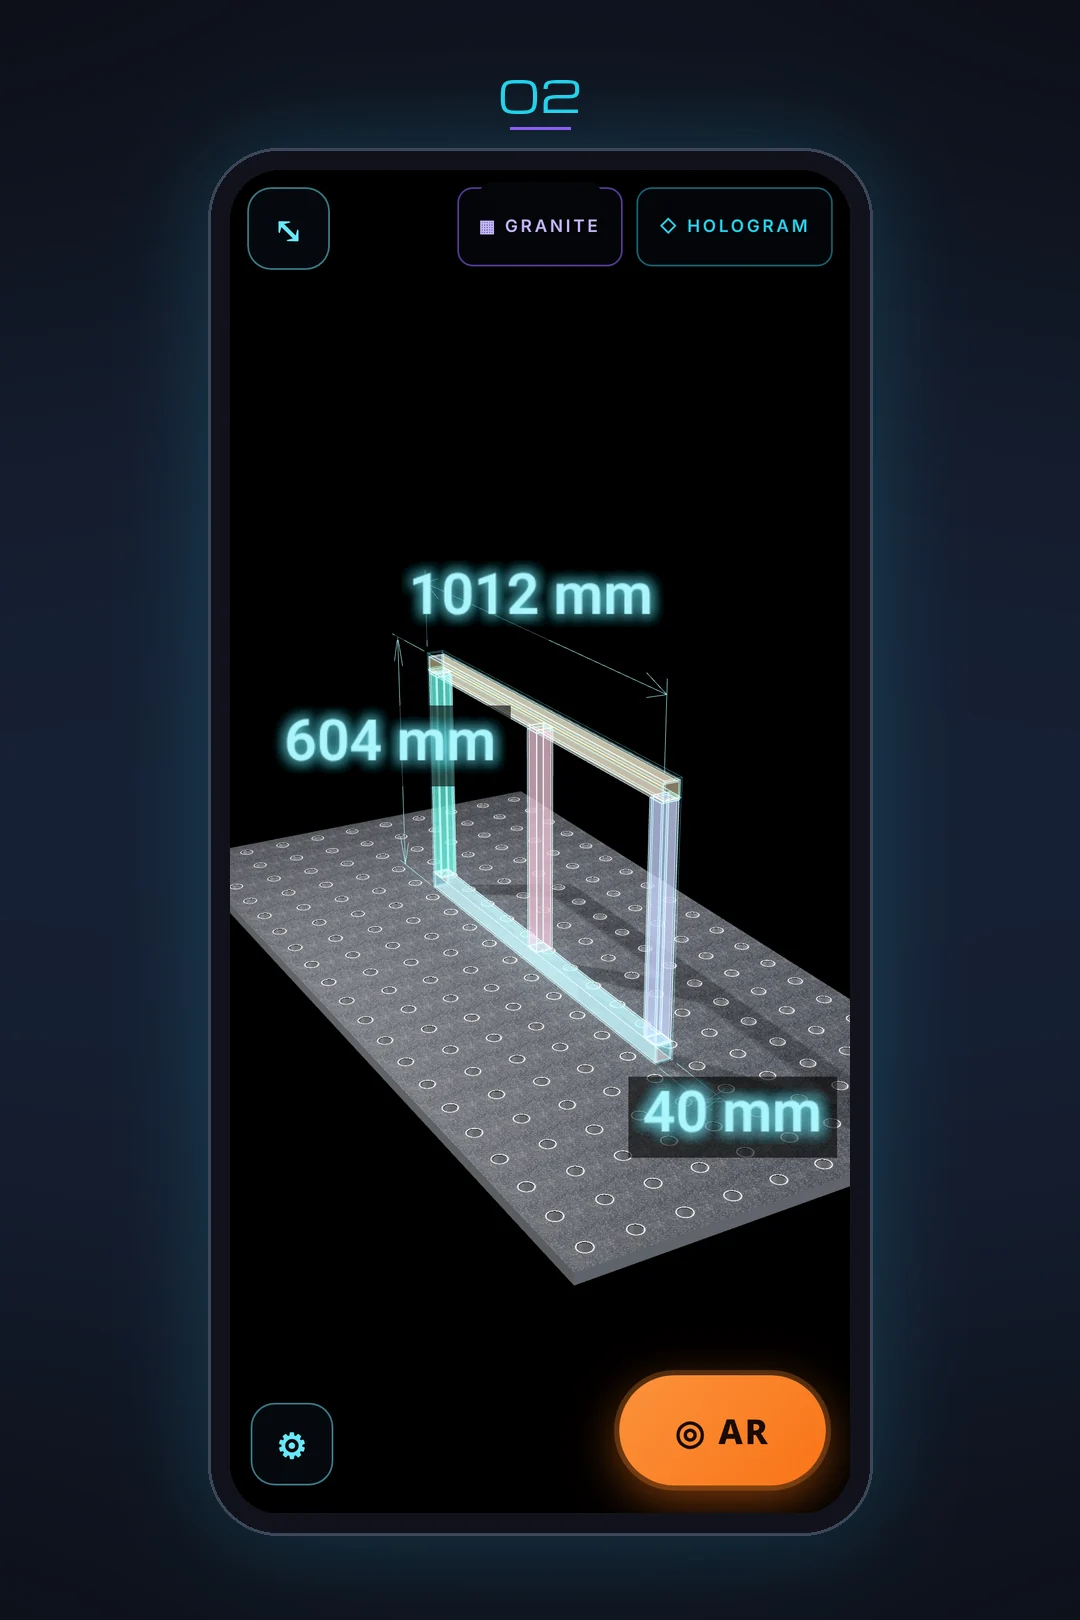
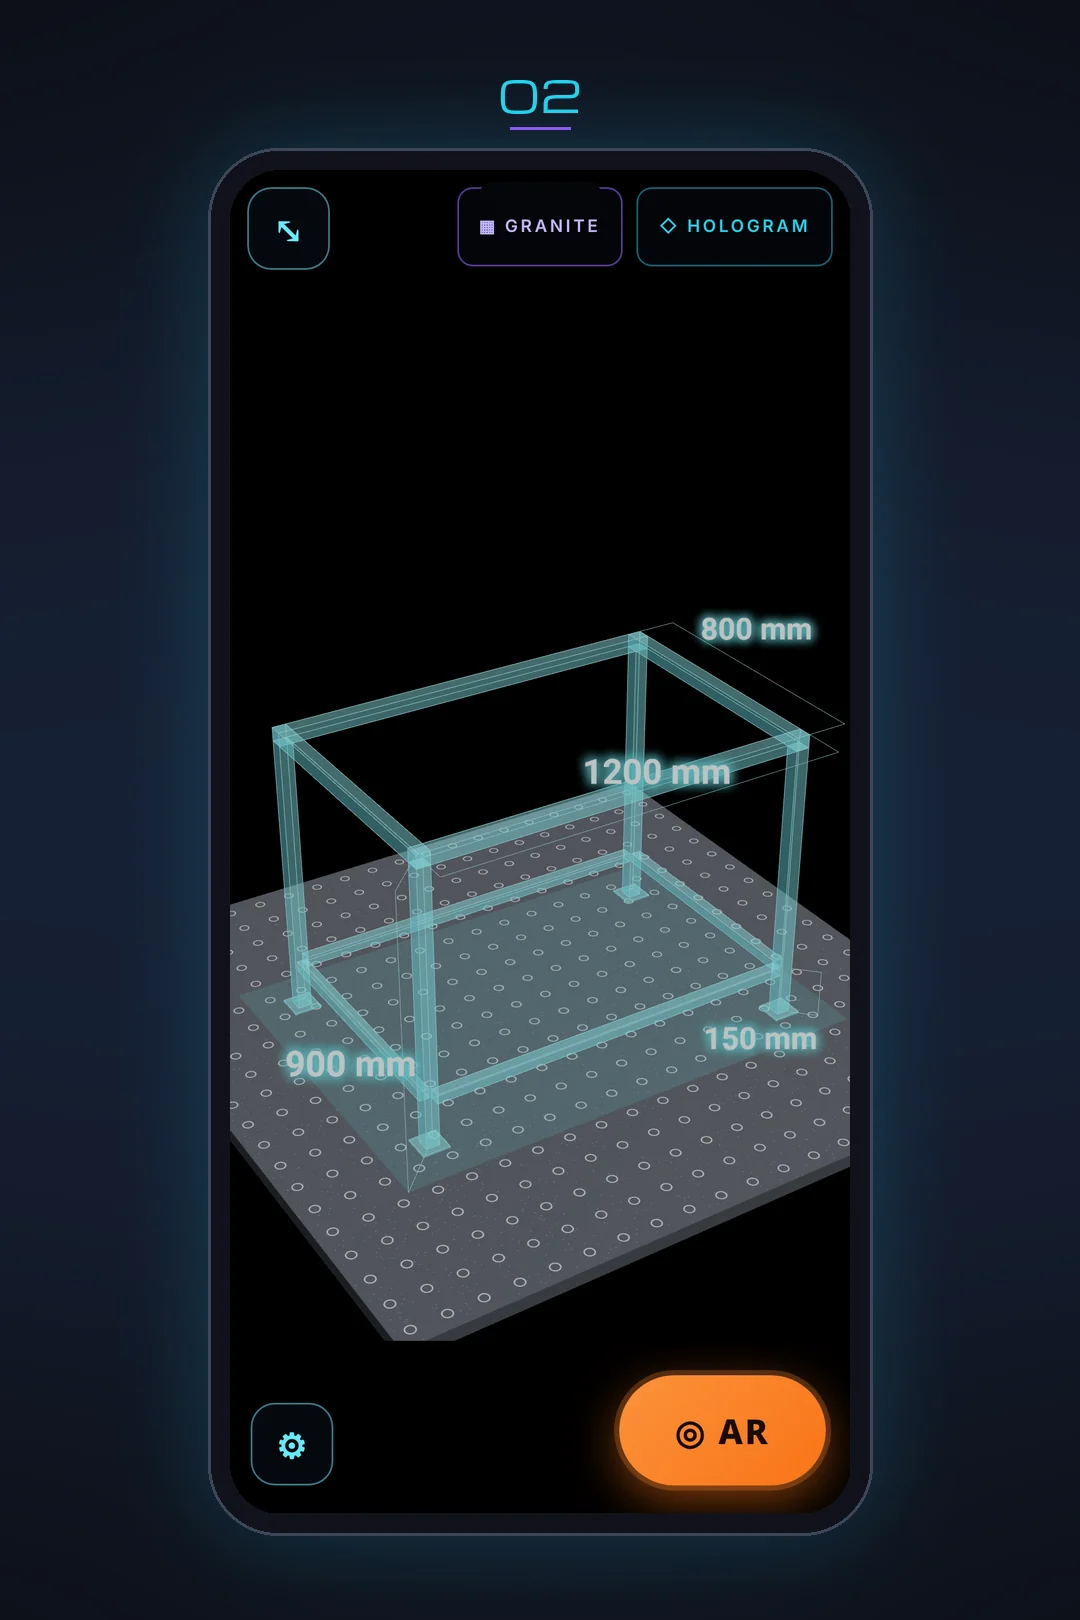
Jednolity projekt WB-1200 na grafikach krokow

Changed region(s): [[0.2139, 0.3395, 0.7944, 0.8333]]

diff --git a/index.html b/index.html
@@ -139,9 +139,9 @@ footer a{display:inline-block;padding:.5rem .2rem}
 <sec id="jak">
   <h2 data-k="jak" style="text-align:center">Jak to działa</h2>
   <div class="steps">
-    <div class="st"><img src="img/krok1.webp?v=2" width="1080" height="1620" loading="eager" alt="Ekran aplikacji: kadrowanie zdjęcia rysunku technicznego płyty" data-ka="s1a"><h3 data-k="s1t">Zrób zdjęcie rysunku</h3><p data-k="s1d">Sfotografuj rysunek techniczny lub wczytaj plik, potem wykadruj i wyprostuj.</p></div>
-    <div class="st"><img src="img/krok2.webp?v=2" width="1080" height="1620" loading="eager" alt="Ekran aplikacji: hologram 3D ramy z wymiarami na stole spawalniczym" data-ka="s2a"><h3 data-k="s2t">Program stworzy projekt 3D</h3><p data-k="s2d">Aplikacja odczyta wymiary i profile, a następnie zbuduje model 3D na Twoim stole.</p></div>
-    <div class="st"><img src="img/krok3.webp?v=2" width="1080" height="1620" loading="eager" alt="Ekran aplikacji: podgląd modelu i przycisk Zobacz w AR" data-ka="s3a"><h3 data-k="s3t">Włącz AR i przyspiesz pracę</h3><p data-k="s3d">Zobacz model w skali 1:1 na telefonie lub tablecie i pracuj szybciej.</p></div>
+    <div class="st"><img src="img/krok1.webp?v=3" width="1080" height="1620" loading="eager" alt="Ekran aplikacji: kadrowanie zdjęcia rysunku technicznego płyty" data-ka="s1a"><h3 data-k="s1t">Zrób zdjęcie rysunku</h3><p data-k="s1d">Sfotografuj rysunek techniczny lub wczytaj plik, potem wykadruj i wyprostuj.</p></div>
+    <div class="st"><img src="img/krok2.webp?v=3" width="1080" height="1620" loading="eager" alt="Ekran aplikacji: hologram 3D ramy z wymiarami na stole spawalniczym" data-ka="s2a"><h3 data-k="s2t">Program stworzy projekt 3D</h3><p data-k="s2d">Aplikacja odczyta wymiary i profile, a następnie zbuduje model 3D na Twoim stole.</p></div>
+    <div class="st"><img src="img/krok3.webp?v=3" width="1080" height="1620" loading="eager" alt="Ekran aplikacji: podgląd modelu i przycisk Zobacz w AR" data-ka="s3a"><h3 data-k="s3t">Włącz AR i przyspiesz pracę</h3><p data-k="s3d">Zobacz model w skali 1:1 na telefonie lub tablecie i pracuj szybciej.</p></div>
   </div>
   <div class="dots"><i class="on"></i><i></i><i></i></div>
 </sec>
